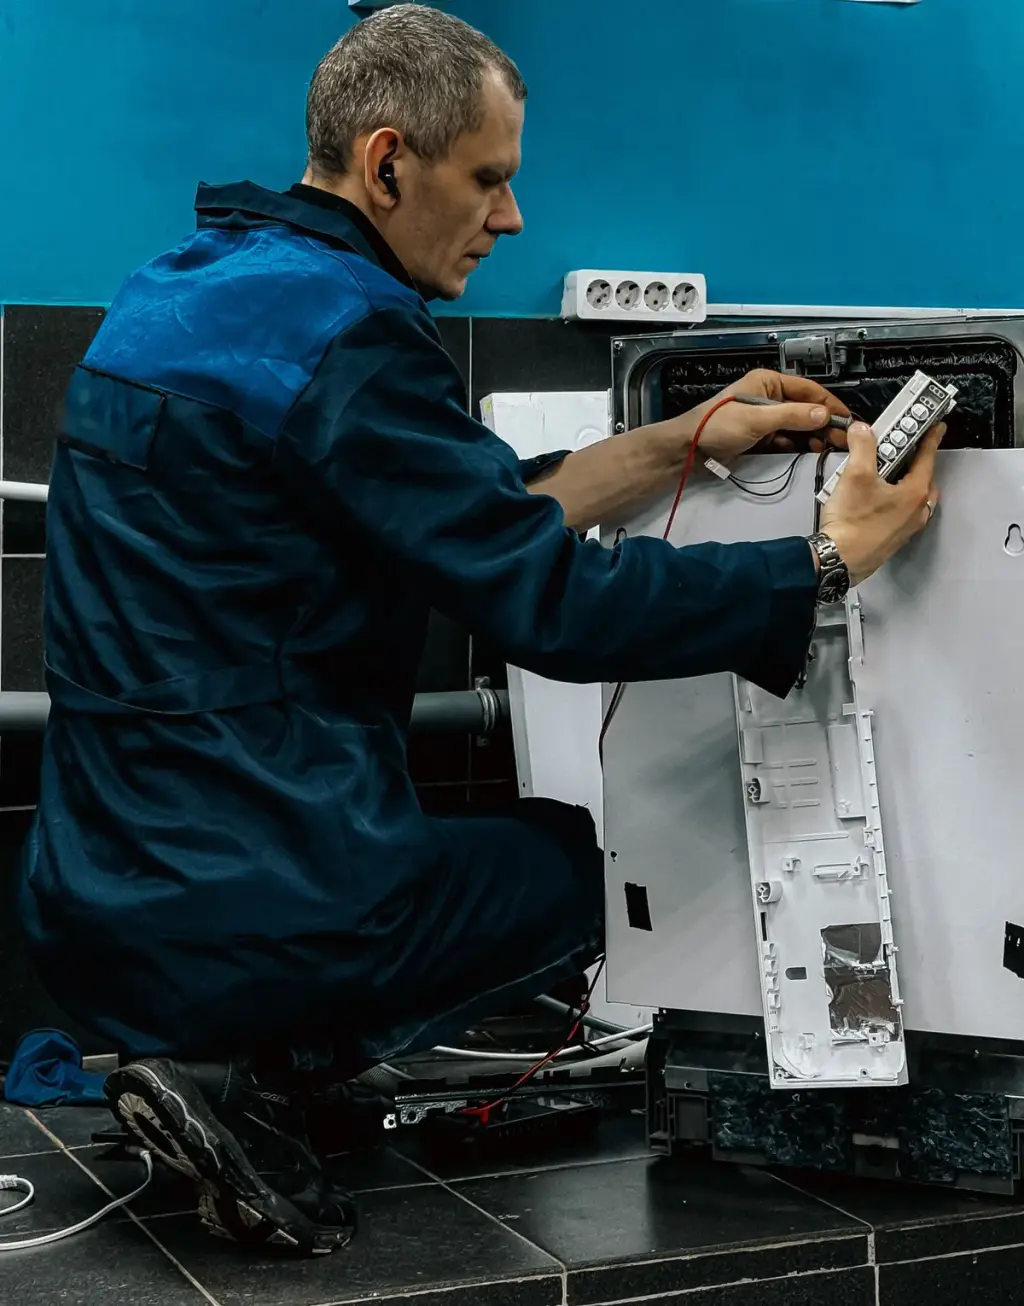
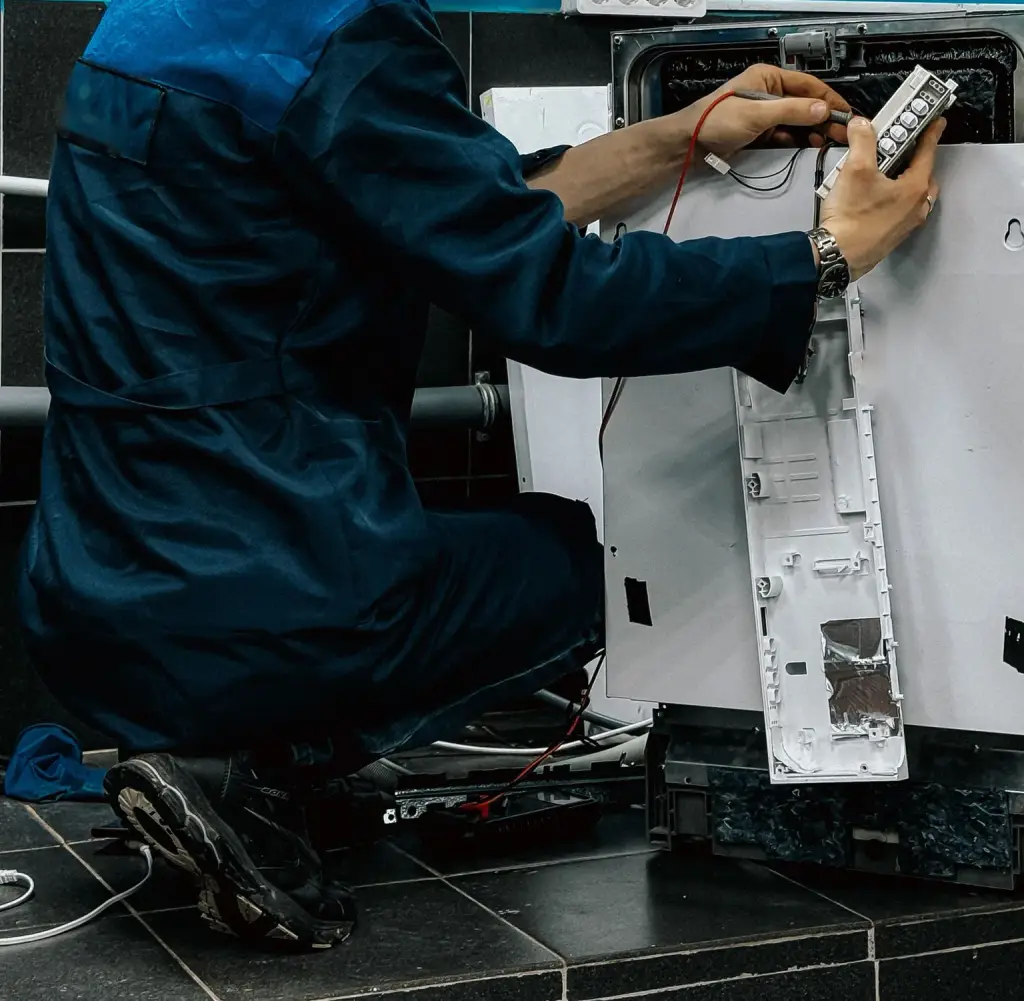
Scheda Elettrodomestici: foto senza il volto
Claude-Session: https://claude.ai/code/session_01MRkTJZ6iNdyTCV6hrB4P3Q

diff --git a/apps/web/src/lib/categoryPhotos.ts b/apps/web/src/lib/categoryPhotos.ts
@@ -29,7 +29,7 @@
  * - tuttofare: pexels.com/photo/5691544
  * - dogsitter: pexels.com/photo/7210537
  * - babysitter: pexels.com/photo/6986430
- * - elettrodomestici: Bulat843, pexels.com/photo/34734504 (verticale, senza il
+ * - elettrodomestici: Bulat843, pexels.com/photo/34734504 (tagliata sotto il volto, senza il
  *   cartello in alto e senza le scritte di tuta ed etichetta; controllata con
  *   TinEye)
  * - tende-da-sole: Ian MacKay, pexels.com/photo/18348172 (scelta di Luca del
@@ -68,9 +68,9 @@ export const CATEGORY_PHOTOS: Partial<Record<string, string>> = {
 export const CATEGORY_PHOTO_FOCUS: Partial<Record<string, string>> = {
   climatizzazione: "30% 50%",
   babysitter: "40% 50%",
-  // Foto verticale: spostata a destra perché si veda la lavastoviglie, non
+  // Spostata a destra perché si vedano le mani e la lavastoviglie, non
   // solo il tecnico (richiesta di Luca del 06/11/2026).
-  elettrodomestici: "75% 50%",
+  elettrodomestici: "70% 50%",
   // Il balcone giallo con la tenda a righe, non il pluviale al centro.
   "tende-da-sole": "22% 50%",
 };

diff --git a/docs/changelog/2026-11-06-mestiere-elettrodomestici.md b/docs/changelog/2026-11-06-mestiere-elettrodomestici.md
@@ -77,7 +77,8 @@ centrata sul balcone giallo. Elettrodomestici con la foto Pexels 34734504
 (tecnico che ripara una lavastoviglie) in verticale: il primo taglio
 orizzontale sul solo tecnico a Luca non andava ("voglio si veda
 l'elettrodomestico"); ora si vedono persona e lavastoviglie, senza il
-cartello in cirillico e senza le scritte di tuta ed etichetta. Scartate tre foto di Pixabay: TinEye le trova in
+cartello in cirillico e senza le scritte di tuta ed etichetta, tagliata sotto
+il volto ("fai in modo che non si vede il volto"). Scartate tre foto di Pixabay: TinEye le trova in
 vendita dal 2018 su Shutterstock e Adobe Stock, caricate su Pixabay da altri.
 Il loader delle immagini e `scripts/riduci-foto-mestieri.mjs` accettano ora
 anche nomi con il trattino (`tende-da-sole`), prima solo lettere.
